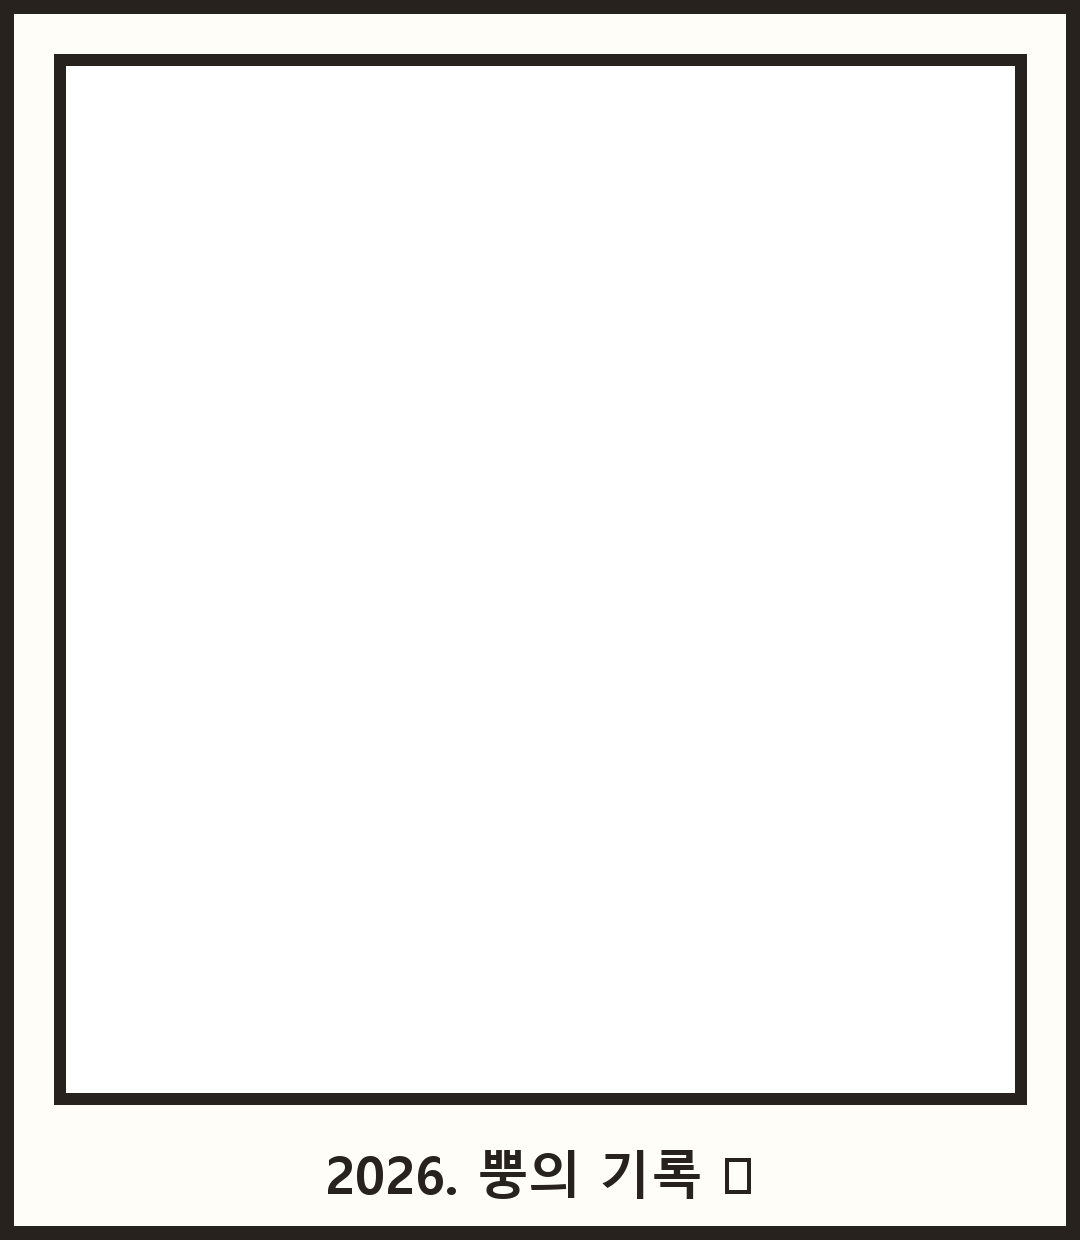
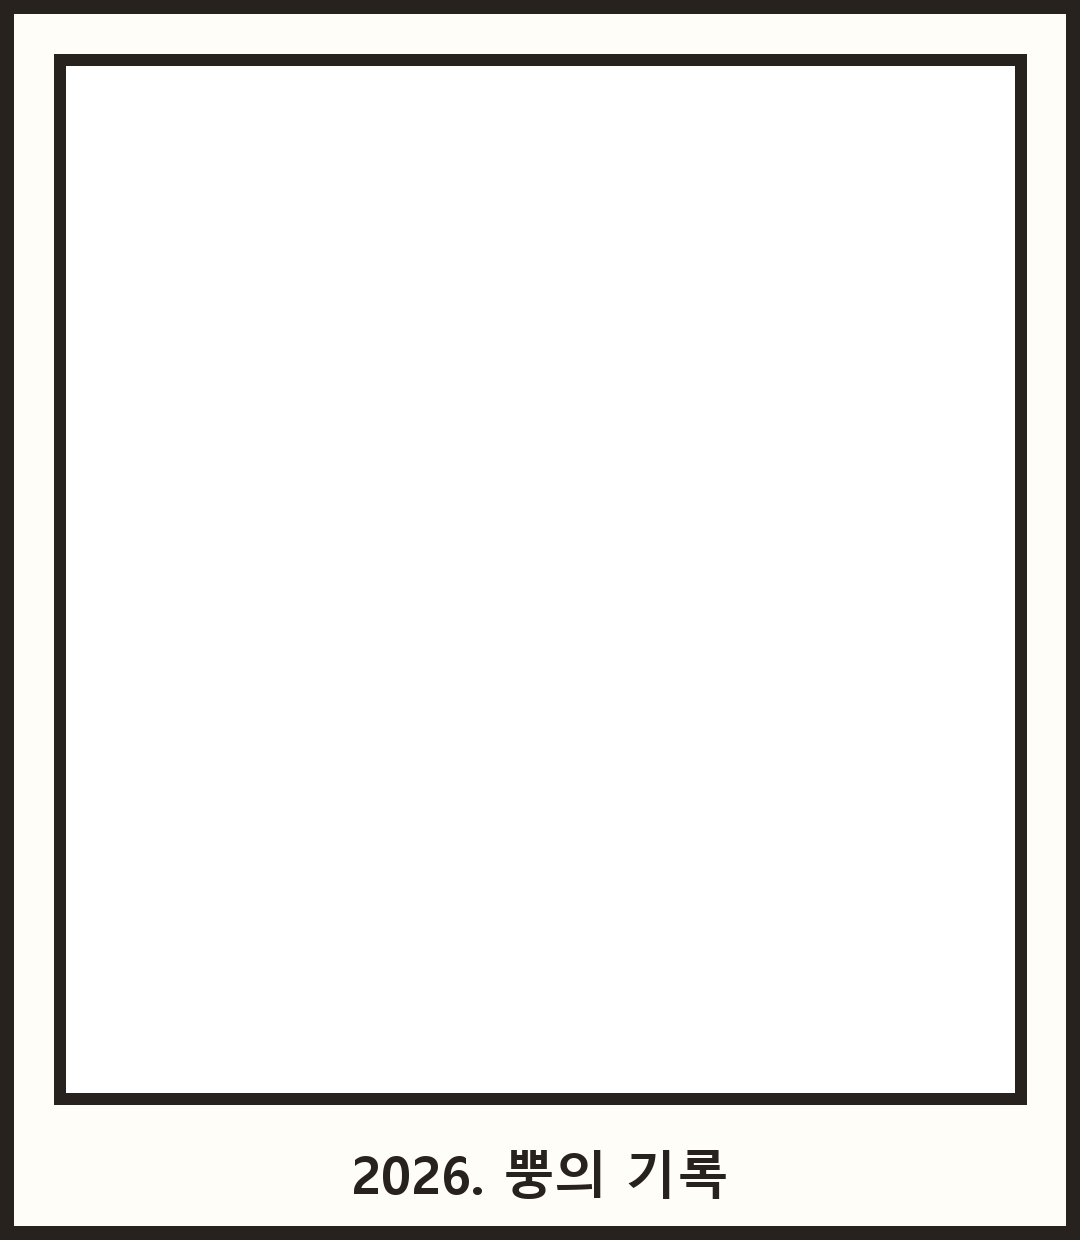
Remove unsupported emoji glyphs in bg_library and frame_polaroid

Changed region(s): [[0.3056, 0.9194, 0.7028, 0.9806]]

diff --git a/generate_skin_wishlist_pack.py b/generate_skin_wishlist_pack.py
@@ -182,7 +182,7 @@ def generate_backgrounds():
     d.line([(0, 1420), (W, 1420)], fill=LINE_COL, width=12)
     # "정숙 (SILENCE)" sign at y: 890..1005
     draw_thick_box(d, [350, 885, 730, 1005], fill=(255, 248, 240, 255), width=12, radius=16)
-    d.text((540, 945), "🤫 정숙", fill=(205, 45, 45, 255), font=f_big, anchor="mm")
+    d.text((540, 945), "정숙 (침묵)", fill=(205, 45, 45, 255), font=f_big, anchor="mm")
     # Stack of thick books on left
     draw_thick_box(d, [130, 1280, 340, 1350], fill=(75, 135, 195, 255), width=10, radius=8)
     draw_thick_box(d, [120, 1350, 355, 1420], fill=(215, 85, 75, 255), width=10, radius=8)
@@ -854,7 +854,7 @@ def generate_frames():
 
     # 1) frame_polaroid: 폴라로이드
     img, d = make_border_frame((255, 253, 248, 255), top_h=54, bot_h=136, side_w=54)
-    d.text((W // 2, H - 68), "2026. 뿡의 기록 📸", fill=LINE_COL, font=f_big, anchor="mm")
+    d.text((W // 2, H - 68), "2026. 뿡의 기록", fill=LINE_COL, font=f_big, anchor="mm")
     frames["frame_polaroid"] = img
 
     # 2) frame_news: 옛날 신문 1면
